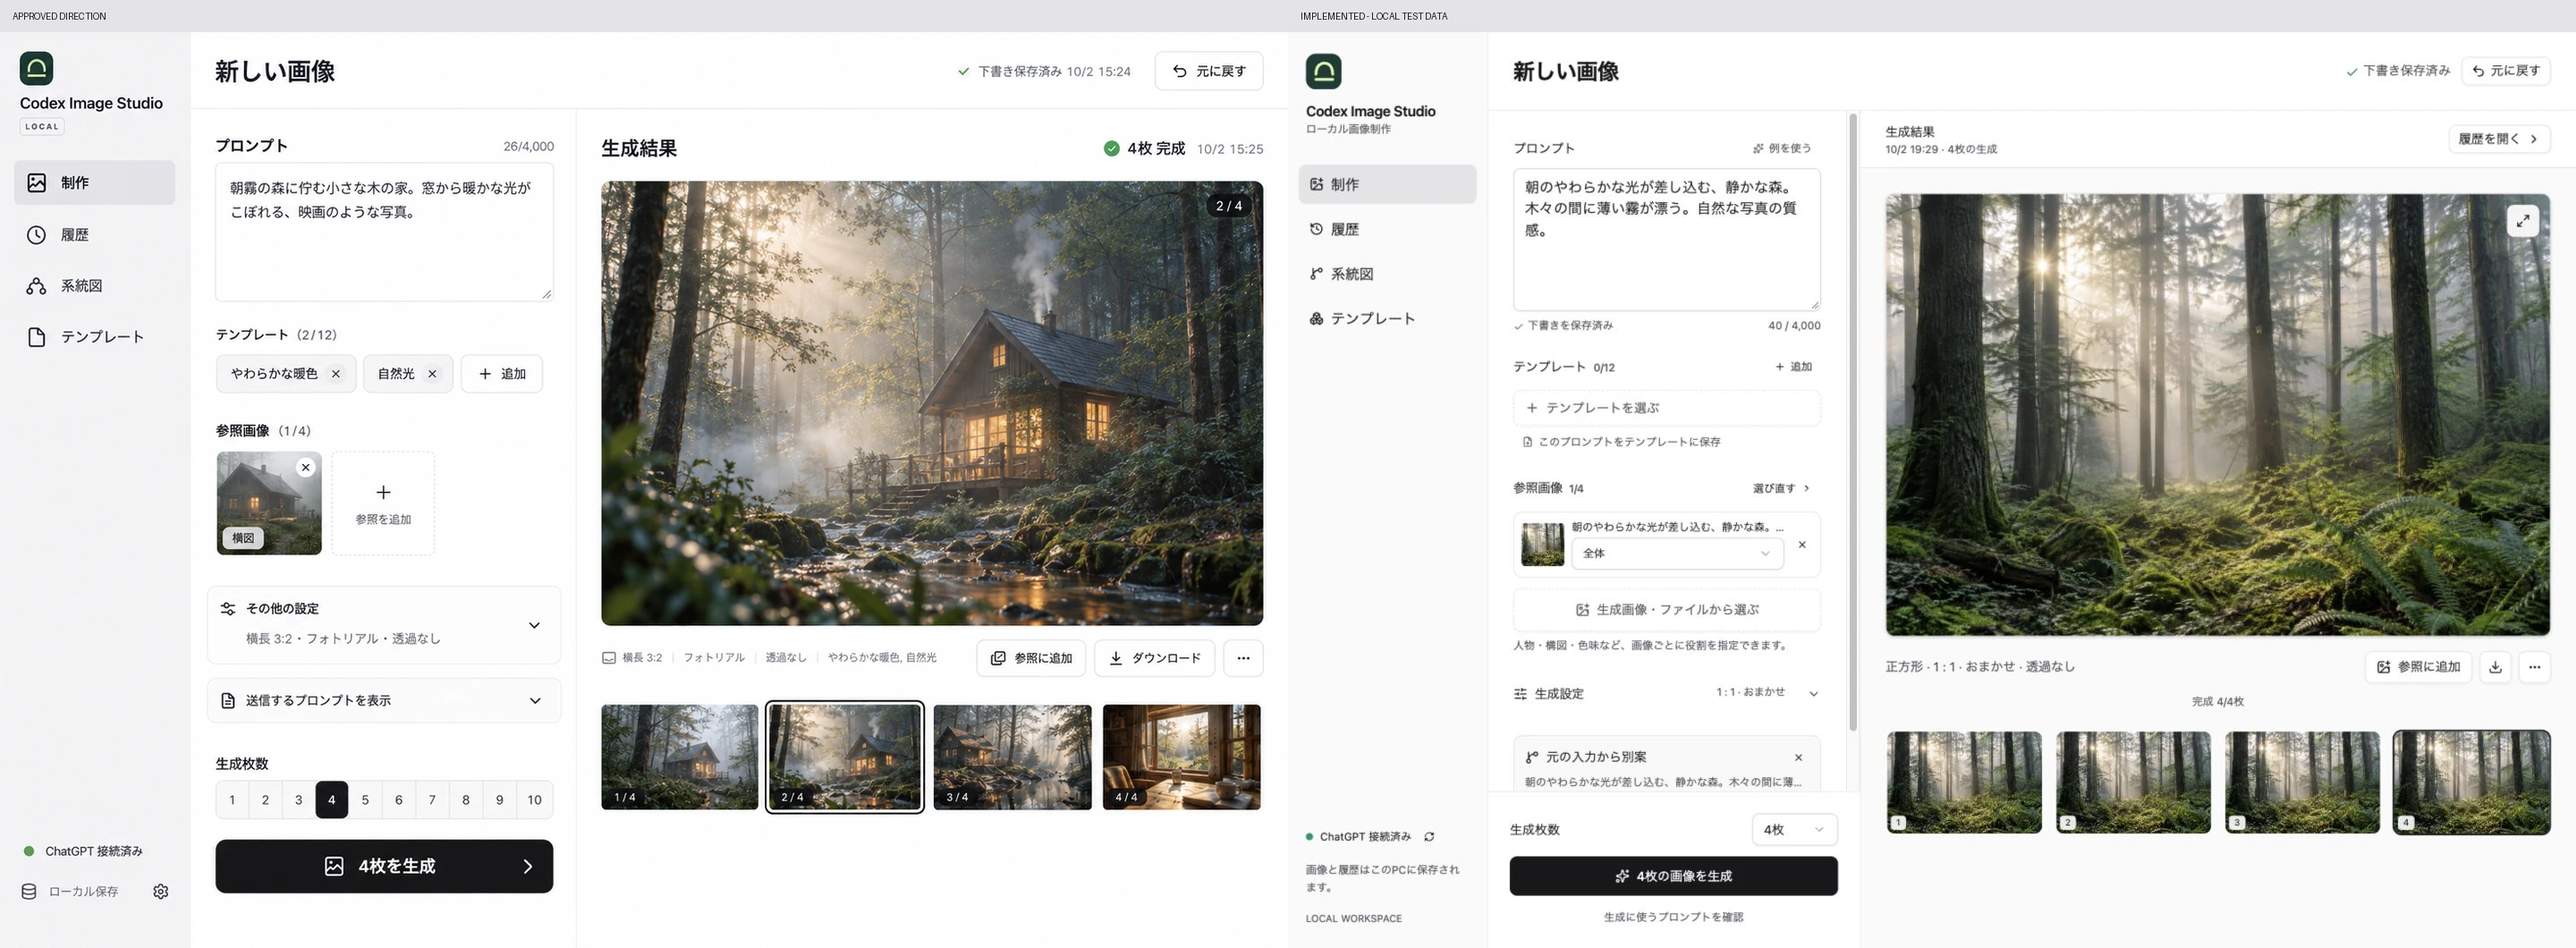
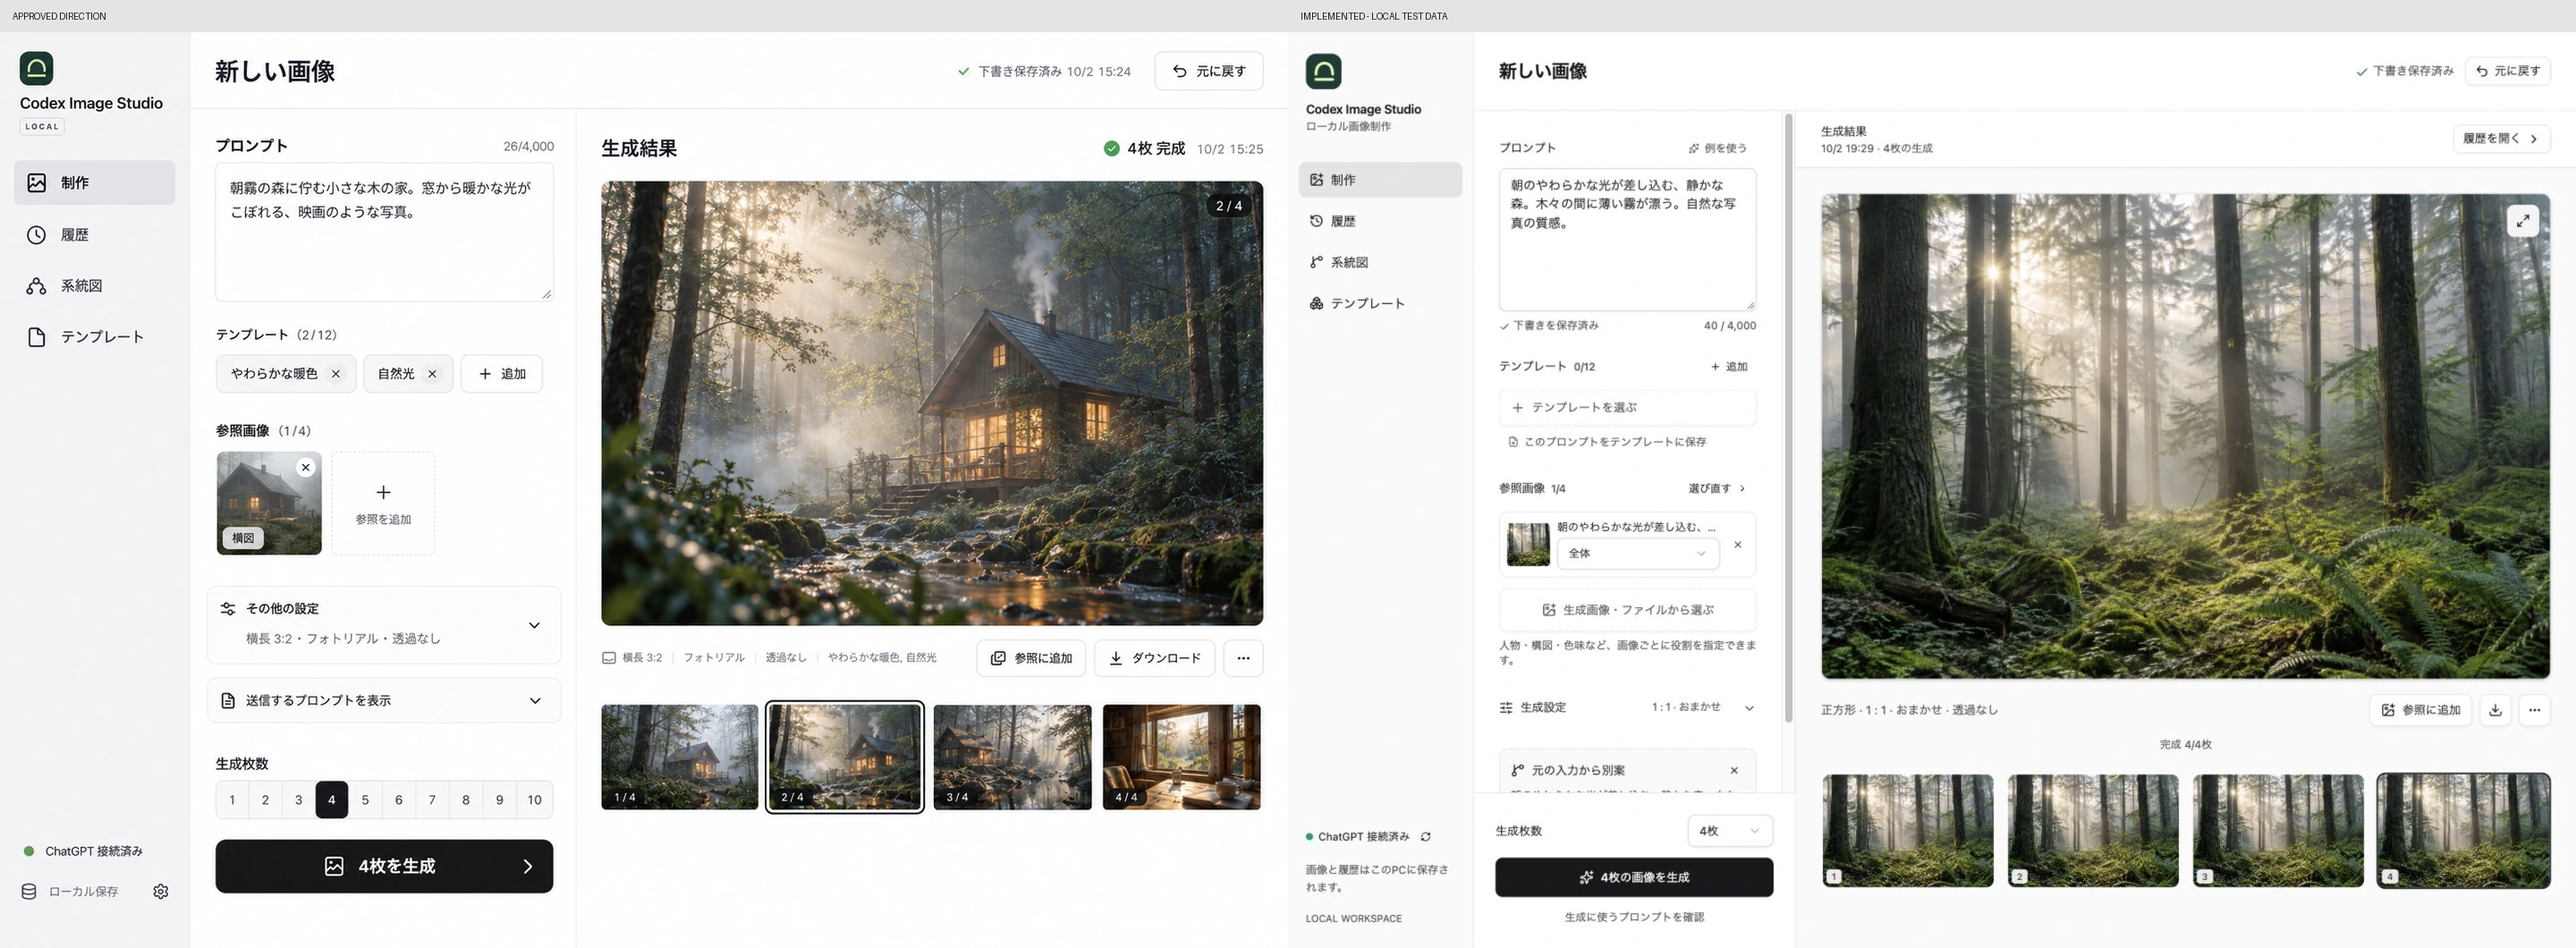
fix: make studio typography more compact

diff --git a/frontend/src/features/create.tsx b/frontend/src/features/create.tsx
@@ -136,7 +136,7 @@ export function CreateView({
       <div className="flex min-h-0 flex-1 flex-col md:flex-row">
         <section
           aria-label="制作の入力"
-          className="flex w-full shrink-0 flex-col border-b bg-white md:w-[360px] md:border-b-0 md:border-r lg:w-[416px]"
+          className="flex w-full shrink-0 flex-col border-b bg-white md:w-[320px] md:border-b-0 md:border-r lg:w-[360px]"
         >
           <div className="flex-1 space-y-6 overflow-y-auto p-5 lg:p-7">
             <div>
@@ -162,7 +162,7 @@ export function CreateView({
                 value={d.prompt}
                 maxLength={4000}
                 onChange={(e) => studio.updateDraft({ prompt: e.target.value })}
-                className="min-h-40 resize-y text-base md:text-base"
+                className="min-h-40 resize-y text-[16px] md:text-base"
               />
               <div className="mt-2 flex items-center justify-between text-xs text-muted-foreground">
                 <span>
@@ -566,7 +566,7 @@ export function CreateView({
         </section>
         <section
           aria-label="生成結果"
-          className="flex min-h-[540px] min-w-0 flex-1 flex-col bg-[#fafafa] md:min-h-0"
+          className="studio-result flex min-h-[540px] min-w-0 flex-1 flex-col bg-[#fafafa] md:min-h-0"
         >
           <header className="flex min-h-16 items-center justify-between gap-3 border-b bg-white px-5 lg:px-7">
             <div>
@@ -707,7 +707,7 @@ export function CreateView({
                     </div>
                   )}
                 </div>
-                <div className="mt-4 flex w-full max-w-4xl flex-wrap items-center justify-between gap-3">
+                <div className="result-meta mt-4 flex w-full max-w-4xl flex-wrap items-center justify-between gap-3">
                   <p className="min-w-0 flex-1 truncate text-sm text-muted-foreground">
                     {canvasSizeLabel(source.size, { full: true })} ·{" "}
                     {styleLabels[source.style || "auto"]} ·{" "}

diff --git a/frontend/src/app.tsx b/frontend/src/app.tsx
@@ -29,7 +29,7 @@ export function App() {
   }>();
   return (
     <div className="flex min-h-dvh flex-col md:h-dvh md:min-h-0 md:flex-row">
-      <aside className="flex shrink-0 flex-col border-b bg-[#fafafa] md:w-[208px] md:border-b-0 md:border-r lg:w-[224px]">
+      <aside className="flex shrink-0 flex-col border-b bg-[#fafafa] md:w-[184px] md:border-b-0 md:border-r lg:w-[208px]">
         <div className="flex items-center gap-3 p-4 md:flex-col md:items-start md:px-5 md:py-6">
           <img
             src="/favicon.svg"
@@ -52,7 +52,7 @@ export function App() {
               key={id}
               variant="ghost"
               className={cn(
-                "h-16 min-w-0 flex-1 flex-col justify-center gap-1 whitespace-normal px-2 py-1 text-xs leading-tight font-normal md:h-11 md:flex-none md:flex-row md:justify-start md:gap-2 md:whitespace-nowrap md:px-3 md:text-base md:w-full",
+                "h-16 min-w-0 flex-1 flex-col justify-center gap-1 whitespace-normal px-2 py-1 text-xs leading-tight font-normal md:h-10 md:flex-none md:flex-row md:justify-start md:gap-2 md:whitespace-nowrap md:px-3 md:text-base md:w-full",
                 studio.view === id &&
                   "bg-zinc-200/70 font-medium hover:bg-zinc-200",
               )}
@@ -64,15 +64,15 @@ export function App() {
             </Button>
           ))}
         </nav>
-        <div className="mt-auto hidden space-y-4 px-5 py-6 md:block">
-          <div className="flex items-center gap-2 text-xs">
+        <div className="mt-auto hidden space-y-4 px-4 py-6 md:block lg:px-5">
+          <div className="flex items-center gap-1.5 text-xs">
             <span
               className={cn(
                 "size-2 rounded-full",
                 studio.health?.ready ? "bg-emerald-600" : "bg-amber-500",
               )}
             />
-            <span>
+            <span className="whitespace-nowrap">
               ChatGPT {studio.health?.ready ? "接続済み" : "接続確認"}
             </span>
             <Button

diff --git a/frontend/src/components/ui/input.tsx b/frontend/src/components/ui/input.tsx
@@ -7,7 +7,7 @@ function Input({ className, type, ...props }: React.ComponentProps<"input">) {
       type={type}
       data-slot="input"
       className={cn(
-        "h-9 w-full min-w-0 rounded-md border border-input bg-transparent px-3 py-1 text-base shadow-xs transition-[color,box-shadow] outline-none selection:bg-primary selection:text-primary-foreground file:inline-flex file:h-7 file:border-0 file:bg-transparent file:text-sm file:font-medium file:text-foreground placeholder:text-muted-foreground disabled:pointer-events-none disabled:cursor-not-allowed disabled:opacity-50 md:text-sm dark:bg-input/30",
+        "h-9 w-full min-w-0 rounded-md border border-input bg-transparent px-3 py-1 text-[16px] shadow-xs transition-[color,box-shadow] outline-none selection:bg-primary selection:text-primary-foreground file:inline-flex file:h-7 file:border-0 file:bg-transparent file:text-sm file:font-medium file:text-foreground placeholder:text-muted-foreground disabled:pointer-events-none disabled:cursor-not-allowed disabled:opacity-50 md:text-sm dark:bg-input/30",
         "focus-visible:border-ring focus-visible:ring-[3px] focus-visible:ring-ring/50",
         "aria-invalid:border-destructive aria-invalid:ring-destructive/20 dark:aria-invalid:ring-destructive/40",
         className,

diff --git a/frontend/src/components/ui/textarea.tsx b/frontend/src/components/ui/textarea.tsx
@@ -6,7 +6,7 @@ function Textarea({ className, ...props }: React.ComponentProps<"textarea">) {
     <textarea
       data-slot="textarea"
       className={cn(
-        "flex field-sizing-content min-h-16 w-full rounded-md border border-input bg-transparent px-3 py-2 text-base shadow-xs transition-[color,box-shadow] outline-none placeholder:text-muted-foreground focus-visible:border-ring focus-visible:ring-[3px] focus-visible:ring-ring/50 disabled:cursor-not-allowed disabled:opacity-50 aria-invalid:border-destructive aria-invalid:ring-destructive/20 md:text-sm dark:bg-input/30 dark:aria-invalid:ring-destructive/40",
+        "flex field-sizing-content min-h-16 w-full rounded-md border border-input bg-transparent px-3 py-2 text-[16px] shadow-xs transition-[color,box-shadow] outline-none placeholder:text-muted-foreground focus-visible:border-ring focus-visible:ring-[3px] focus-visible:ring-ring/50 disabled:cursor-not-allowed disabled:opacity-50 aria-invalid:border-destructive aria-invalid:ring-destructive/20 md:text-sm dark:bg-input/30 dark:aria-invalid:ring-destructive/40",
         className,
       )}
       {...props}

diff --git a/frontend/src/styles.css b/frontend/src/styles.css
@@ -1,6 +1,11 @@
 @import "tailwindcss";
 @custom-variant dark (&:where(.dark, .dark *));
 @theme inline {
+  --text-sm: 0.8125rem;
+  --text-base: 0.875rem;
+  --text-lg: 1rem;
+  --text-xl: 1.125rem;
+  --text-2xl: 1.25rem;
   --color-background: var(--background);
   --color-foreground: var(--foreground);
   --color-card: var(--card);
@@ -55,7 +60,7 @@
       "Segoe UI",
       "Noto Sans JP",
       sans-serif;
-    font-size: 14px;
+    font-size: 13px;
     line-height: 1.6;
   }
   button,
@@ -102,6 +107,22 @@
 .studio-view {
   height: 100%;
   min-height: 0;
+}
+.studio-result {
+  container: generation-result / inline-size;
+}
+@container generation-result (max-width: 400px) {
+  .result-meta {
+    flex-direction: column;
+    align-items: stretch;
+  }
+  .result-meta > p {
+    flex: none;
+    white-space: normal;
+  }
+  .result-meta > div {
+    align-self: flex-end;
+  }
 }
 @media (max-width: 767px) {
   .studio-view {

diff --git a/design-qa.md b/design-qa.md
@@ -2,7 +2,7 @@
 
 final result: passed
 
-2026-10-02。採用した1案目の制作・履歴・系統図・テンプレートを、既存アプリの機能とデータ形式に接続して確認した。Product Designの比較・操作検証を実施し、確認範囲で未解決のP0・P1・P2はない。実アカウントでの画像生成は今回の検証範囲に含めていない。
+2026-10-02。採用した1案目の制作・履歴・系統図・テンプレートを、既存アプリの機能とデータ形式に接続して確認した。その後の「全体的にフォントサイズが大きすぎる」というフィードバックを受け、文字と固定パネルの幅をコンパクトに調整した。Product Designの比較・操作検証を実施し、確認範囲で未解決のP0・P1・P2はない。実アカウントでの画像生成は今回の検証範囲に含めていない。
 
 ## 比較した原案
 
@@ -13,7 +13,7 @@ final result: passed
 - 系統図：`/Users/suzukiyuto/.codex/generated_images/01a0fbee-19ad-7c90-a8c2-2acda142d31e/exec-03c49561-7150-473c-89a7-5fa20f725ff6.png`
 - テンプレート：`/Users/suzukiyuto/.codex/generated_images/01a0fbee-19ad-7c90-a8c2-2acda142d31e/exec-bfda5f21-fc15-4f1e-b898-35d89931aca0.png`
 
-比較画像は原案を1440 × 1024 pxへ等比縮小し、比率の端数だけ中央で切り揃えた。実装のデスクトップ画像はCSSビューポート1440 × 1024、DPR 1、画像も1440 × 1024 px。左右を同じ大きさで一枚に配置し、全体の領域配分と、文字が読める切り出しを別々に確認した。WebPはレビュー用の形式変換で、画面の内容を描き直していない。
+比較画像は原案を1440 × 1024 pxへ等比縮小し、比率の端数だけ中央で切り揃えた。実装のデスクトップ画像はCSSビューポート1440 × 1024。初回はDPR 1、文字サイズの再調整後はDPR 2で取得したが、ブラウザーツールの出力画像はどちらも1440 × 1024 px。比較にはこのCSSピクセル相当の出力を使用した。左右を同じ大きさで一枚に配置し、全体の領域配分と、文字が読める切り出しを別々に確認した。WebPはレビュー用の形式変換で、画面の内容を描き直していない。
 
 | 画面 | 原案と実装の比較 | 実装 |
 | --- | --- | --- |
@@ -23,6 +23,18 @@ final result: passed
 | テンプレート | [左右比較](design-evidence/compare-templates-final.webp)・[一覧の比較](design-evidence/compare-templates-content.webp) | [本文](design-evidence/templates-desktop.webp)・[履歴と差分](design-evidence/templates-history.webp) |
 
 ナビゲーションの切り出しも各画面の `compare-*-navigation.webp` に保存した。原案の正規化コピーは `source-*-normalized.webp` にある。
+
+## 文字サイズの再調整
+
+ユーザーの表示幅775 × 774 CSS px、DPR 2で変更前と変更後を取得した。どちらの出力画像も775 × 774 pxで、ブラウザーツールがCSSピクセル相当にした画像をそのまま比較している。プロンプト、参照1枚、枚数4、選択した4枚目の完成画像を揃えた。[全体比較](design-evidence/typography-comparison.webp)、[上部と入力欄の比較](design-evidence/typography-detail.webp)、[変更後](design-evidence/typography-after.webp)、[390px幅](design-evidence/typography-mobile.webp)を保存した。
+
+[P2] 24pxの見出し・16pxのナビゲーション／プロンプトと、幅208pxのサイドバー・360pxの入力パネルが、775px幅で大きく詰まって見えていた。共通トークンでページ見出し20px、詳細見出し16〜18px、ナビゲーション・テンプレート名・デスクトップのプロンプト14px、通常の本文と操作文字13pxへ調整した。12pxの補助文字と、小さい画面の入力欄16pxは維持する。サイドバーは184px、入力パネルは320pxに調整し、広い画面では208px・360pxとした。
+
+[P2] 固定パネルを狭めると、画像の設定情報が操作ボタンの横で省略されすぎた。結果パネルが400px以下の場合は、設定情報と操作を2段にした。変更後の775px幅で「正方形 · 1 : 1 · おまかせ · 透過なし」の全文と操作ボタンを確認した。接続表示も折り返しを防ぎ、ラベルが欠けないことを確認した。
+
+字体・太さ・行間・文字の階層、領域配分と折り返し、色とコントラスト、写真の品質と比率、画面内の文言を全体比較と切り出しで確認した。色、写真、文言の原案との評価は前回の検証を引き継ぎ、今回の文字サイズの差はユーザーの明示した調整として扱う。4画面を1440 × 1024で再確認し、390px幅では見出し20px・入力16px、横スクロールが表示幅以内であることも確認した。最終ビルドの新規error／warnはなし。npm run checkとnpm testは再度成功し、Node164件・フロントエンド43件が通っている。未解決のP0・P1・P2はない。
+
+実施項目：共通の文字サイズ調整、狭い幅の設定情報の表示、4画面と小さい画面の確認、比較画像の更新、全テストの再実行。
 
 ## 表示データの違いと実装上の判断
 
@@ -52,7 +64,7 @@ final result: passed
 | 最終比較 | OSのダーク設定がライトのトークンと混ざり、入力欄が灰色になった | P2 | dark variantを明示的なクラス方式へ変更。ライトの配色と16pxの入力文字をcomputed styleと画像で再確認 |
 | 最終比較 | テンプレート名・本文抜粋の文字が小さく、選択タブが枠で表示された | P2 | 名前16px・抜粋14pxと選択行の左線を追加。タブを下線表示に変更。[修正後](design-evidence/compare-templates-content.webp) |
 
-本文色は#18181b、補助文字は#52525bを使用。デスクトップのナビゲーションは16px、プロンプト入力は16px。フォーカスの枠を表示し、図の背景はキーボードでも移動できる。原案のアイコンの細部やブラウザー依存の字形はP3の差として残る。
+本文色は#18181b、補助文字は#52525bを使用。再調整後のデスクトップのナビゲーションとプロンプト入力は14px、ページ見出しは20px、通常の本文は13px。補助文字は12pxを維持し、小さい画面の入力欄は16px。フォーカスの枠を表示し、図の背景はキーボードでも移動できる。原案のアイコンの細部やブラウザー依存の字形はP3の差として残る。
 
 ## 操作・画面幅の確認
 
